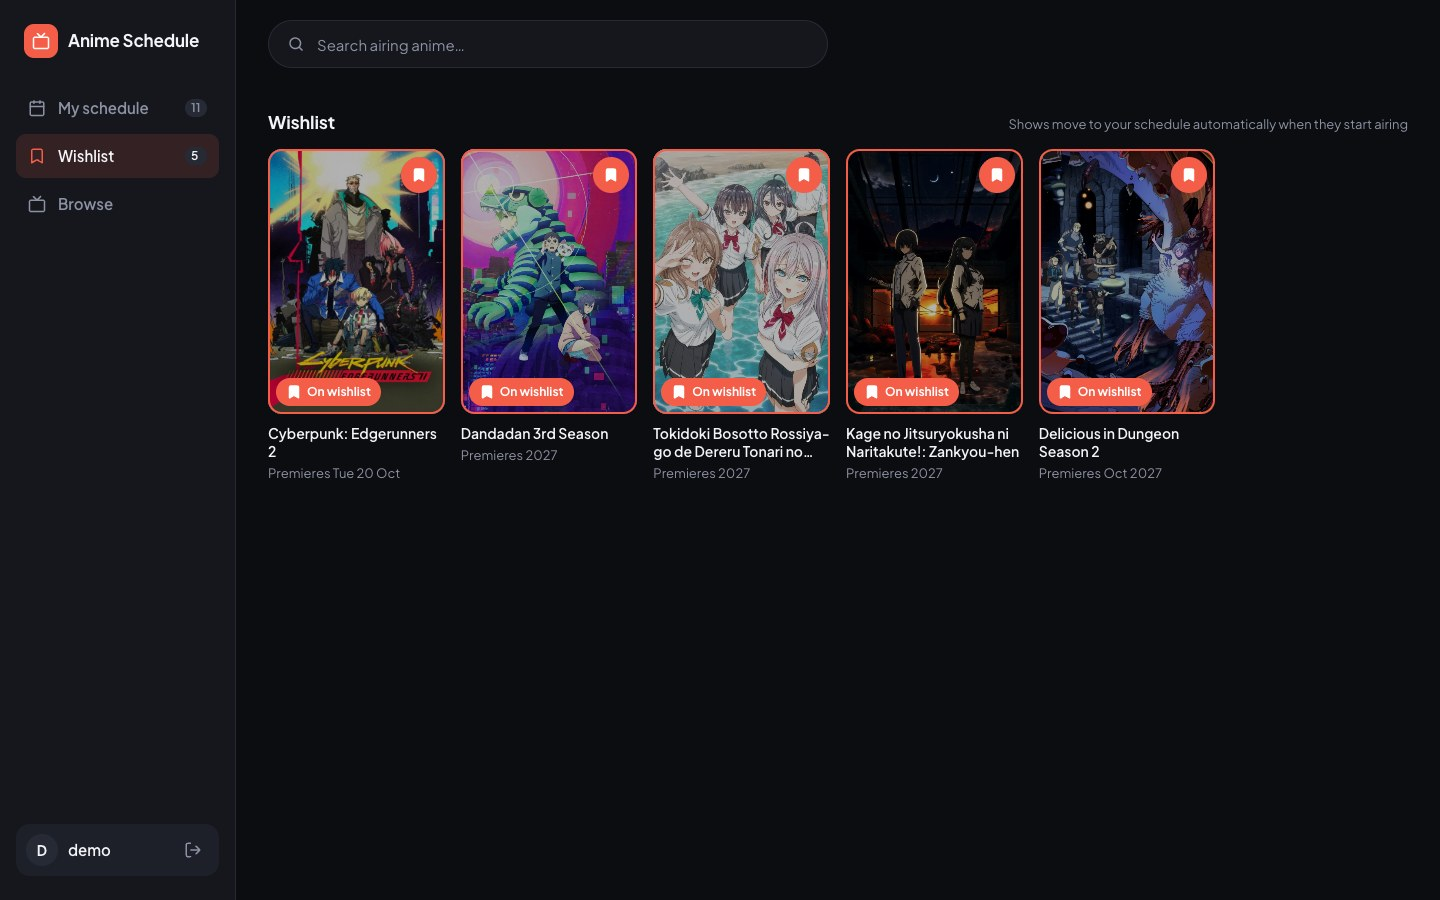
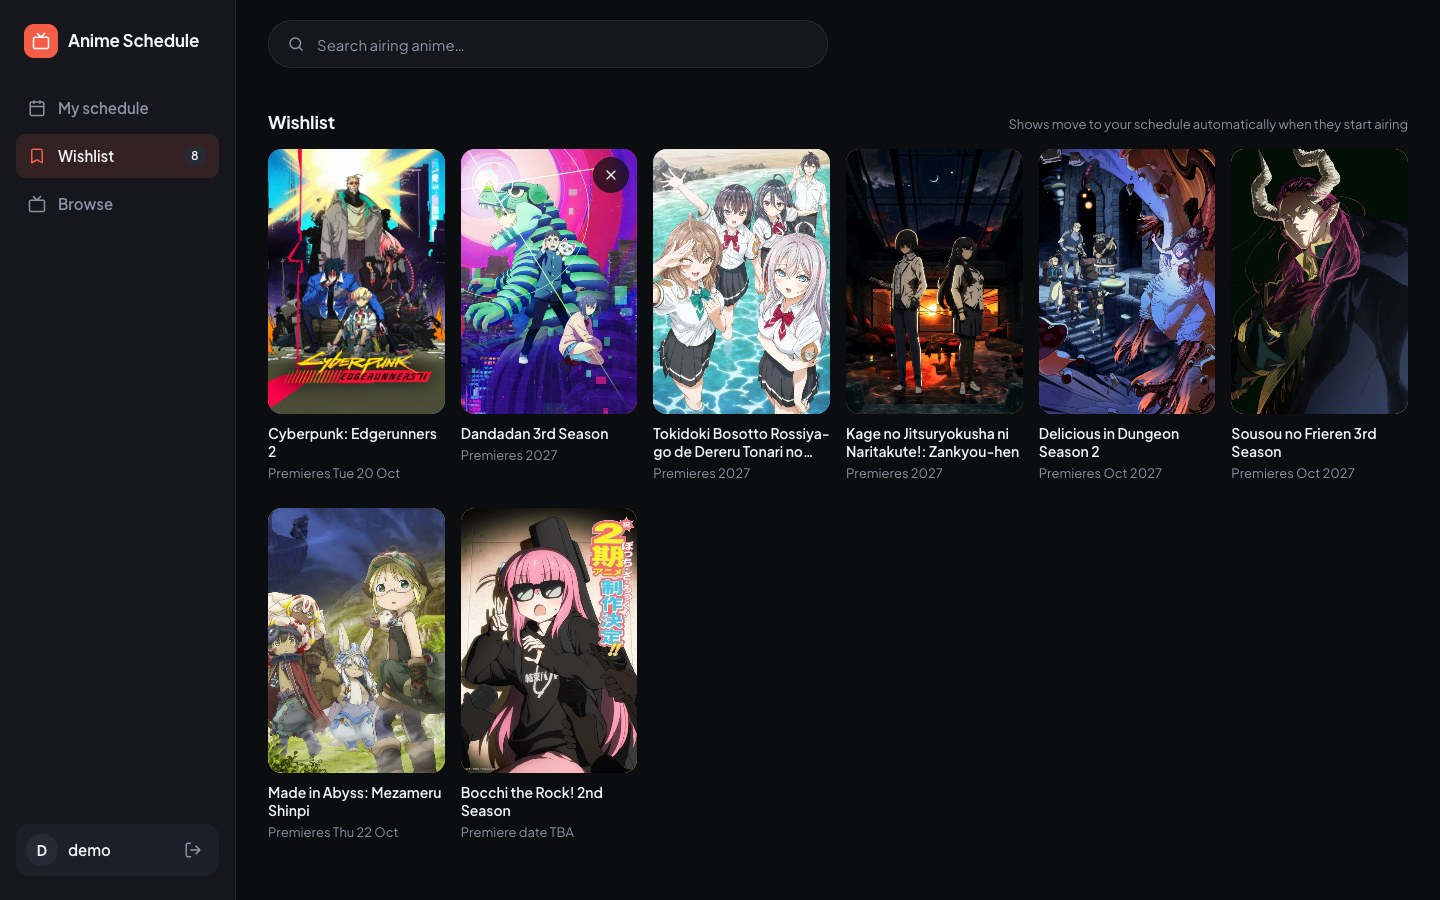
Show wishlist posters without saved styling
The Wishlist page only lists saved shows, so drop the outline, dimming
and "On wishlist" badge there. Removing is a corner X that appears on
hover (always visible on touch). Browse keeps the saved styling.

Changed region(s): [[0.1875, 0.1556, 1.0, 0.5289], [0.1875, 0.56, 0.4688, 0.9333], [0.125, 0.0933, 0.1562, 0.1244]]

diff --git a/src/Posters.jsx b/src/Posters.jsx
@@ -1,5 +1,5 @@
 import React from 'react';
-import { BookmarkIcon, CheckIcon, PlusIcon } from './Icons';
+import { BookmarkIcon, CheckIcon, CloseIcon, PlusIcon } from './Icons';
 import { airingDate, countdown, isUpcoming, premiereLabel, showTitle } from './time';
 
 function caption(show, now) {
@@ -18,11 +18,13 @@ const SAVED = {
 /**
  * Poster cards. Clicking a poster opens its details; the corner button adds or removes.
  * `listOf` maps show id -> 'schedule' | 'wishlist' for saved shows.
+ * `removeOnly` is for pages listing saved shows (Wishlist): no saved styling,
+ * just a remove button.
  */
-export const PosterGrid = ({ shows, now, listOf, onAdd, onRemove, onOpen }) => (
+export const PosterGrid = ({ shows, now, listOf, onAdd, onRemove, onOpen, removeOnly = false }) => (
   <ul className="poster-grid">
     {shows.map((show) => {
-      const list = listOf.get(show.id);
+      const list = removeOnly ? null : listOf.get(show.id);
       const upcoming = isUpcoming(show, now);
       const title = showTitle(show);
       const addLabel = upcoming ? `Add ${title} to wishlist` : `Add ${title} to schedule`;
@@ -37,16 +39,27 @@ export const PosterGrid = ({ shows, now, listOf, onAdd, onRemove, onOpen }) => (
                 {SAVED[list].icon} {SAVED[list].label}
               </span>
             )}
-            <button
-              className="poster-btn"
-              onClick={() => (list ? onRemove(show) : onAdd(show))}
-              aria-label={list ? `Remove ${title} from ${list}` : addLabel}
-              title={list ? `Remove from ${list}` : upcoming ? 'Add to wishlist' : 'Add to schedule'}
-            >
-              <span key={list || 'none'} className="pop">
-                {list ? SAVED[list].icon : upcoming ? <BookmarkIcon size={16} /> : <PlusIcon size={16} />}
-              </span>
-            </button>
+            {removeOnly ? (
+              <button
+                className="poster-btn poster-remove"
+                onClick={() => onRemove(show)}
+                aria-label={`Remove ${title} from ${listOf.get(show.id)}`}
+                title="Remove"
+              >
+                <CloseIcon size={16} />
+              </button>
+            ) : (
+              <button
+                className="poster-btn"
+                onClick={() => (list ? onRemove(show) : onAdd(show))}
+                aria-label={list ? `Remove ${title} from ${list}` : addLabel}
+                title={list ? `Remove from ${list}` : upcoming ? 'Add to wishlist' : 'Add to schedule'}
+              >
+                <span key={list || 'none'} className="pop">
+                  {list ? SAVED[list].icon : upcoming ? <BookmarkIcon size={16} /> : <PlusIcon size={16} />}
+                </span>
+              </button>
+            )}
           </div>
           <button className="poster-title" onClick={() => onOpen(show)} tabIndex={-1}>{title}</button>
           <span className="small muted">{caption(show, now)}</span>
@@ -100,7 +113,7 @@ export const WishlistView = ({ shows, onBrowseUpcoming, ...gridProps }) => (
       <span className="muted small">Shows move to your schedule automatically when they start airing</span>
     </div>
     {shows.length ? (
-      <PosterGrid shows={shows} {...gridProps} />
+      <PosterGrid shows={shows} {...gridProps} removeOnly />
     ) : (
       <div className="empty">
         <BookmarkIcon size={28} />

diff --git a/src/styles.css b/src/styles.css
@@ -648,6 +648,9 @@ section + section,
 .is-schedule .poster-btn { background: var(--success); color: #0c0d11; }
 .is-wishlist .poster-btn { background: var(--accent); color: #fff; }
 .is-saved .poster-btn:hover { background: var(--surface-3); color: var(--text); }
+.poster-remove { opacity: 0; transition: opacity 0.15s, background 0.15s; }
+.poster:hover .poster-remove,
+.poster-remove:focus-visible { opacity: 1; }
 .poster-title {
   font-weight: 600;
   font-size: 14px;
@@ -911,7 +914,8 @@ section + section,
 /* ---------- Touch: always show remove buttons ---------- */
 
 @media (hover: none) {
-  .show-card-remove { opacity: 1; }
+  .show-card-remove,
+  .poster-remove { opacity: 1; }
 }
 
 /* ---------- Tablet / phone ---------- */
